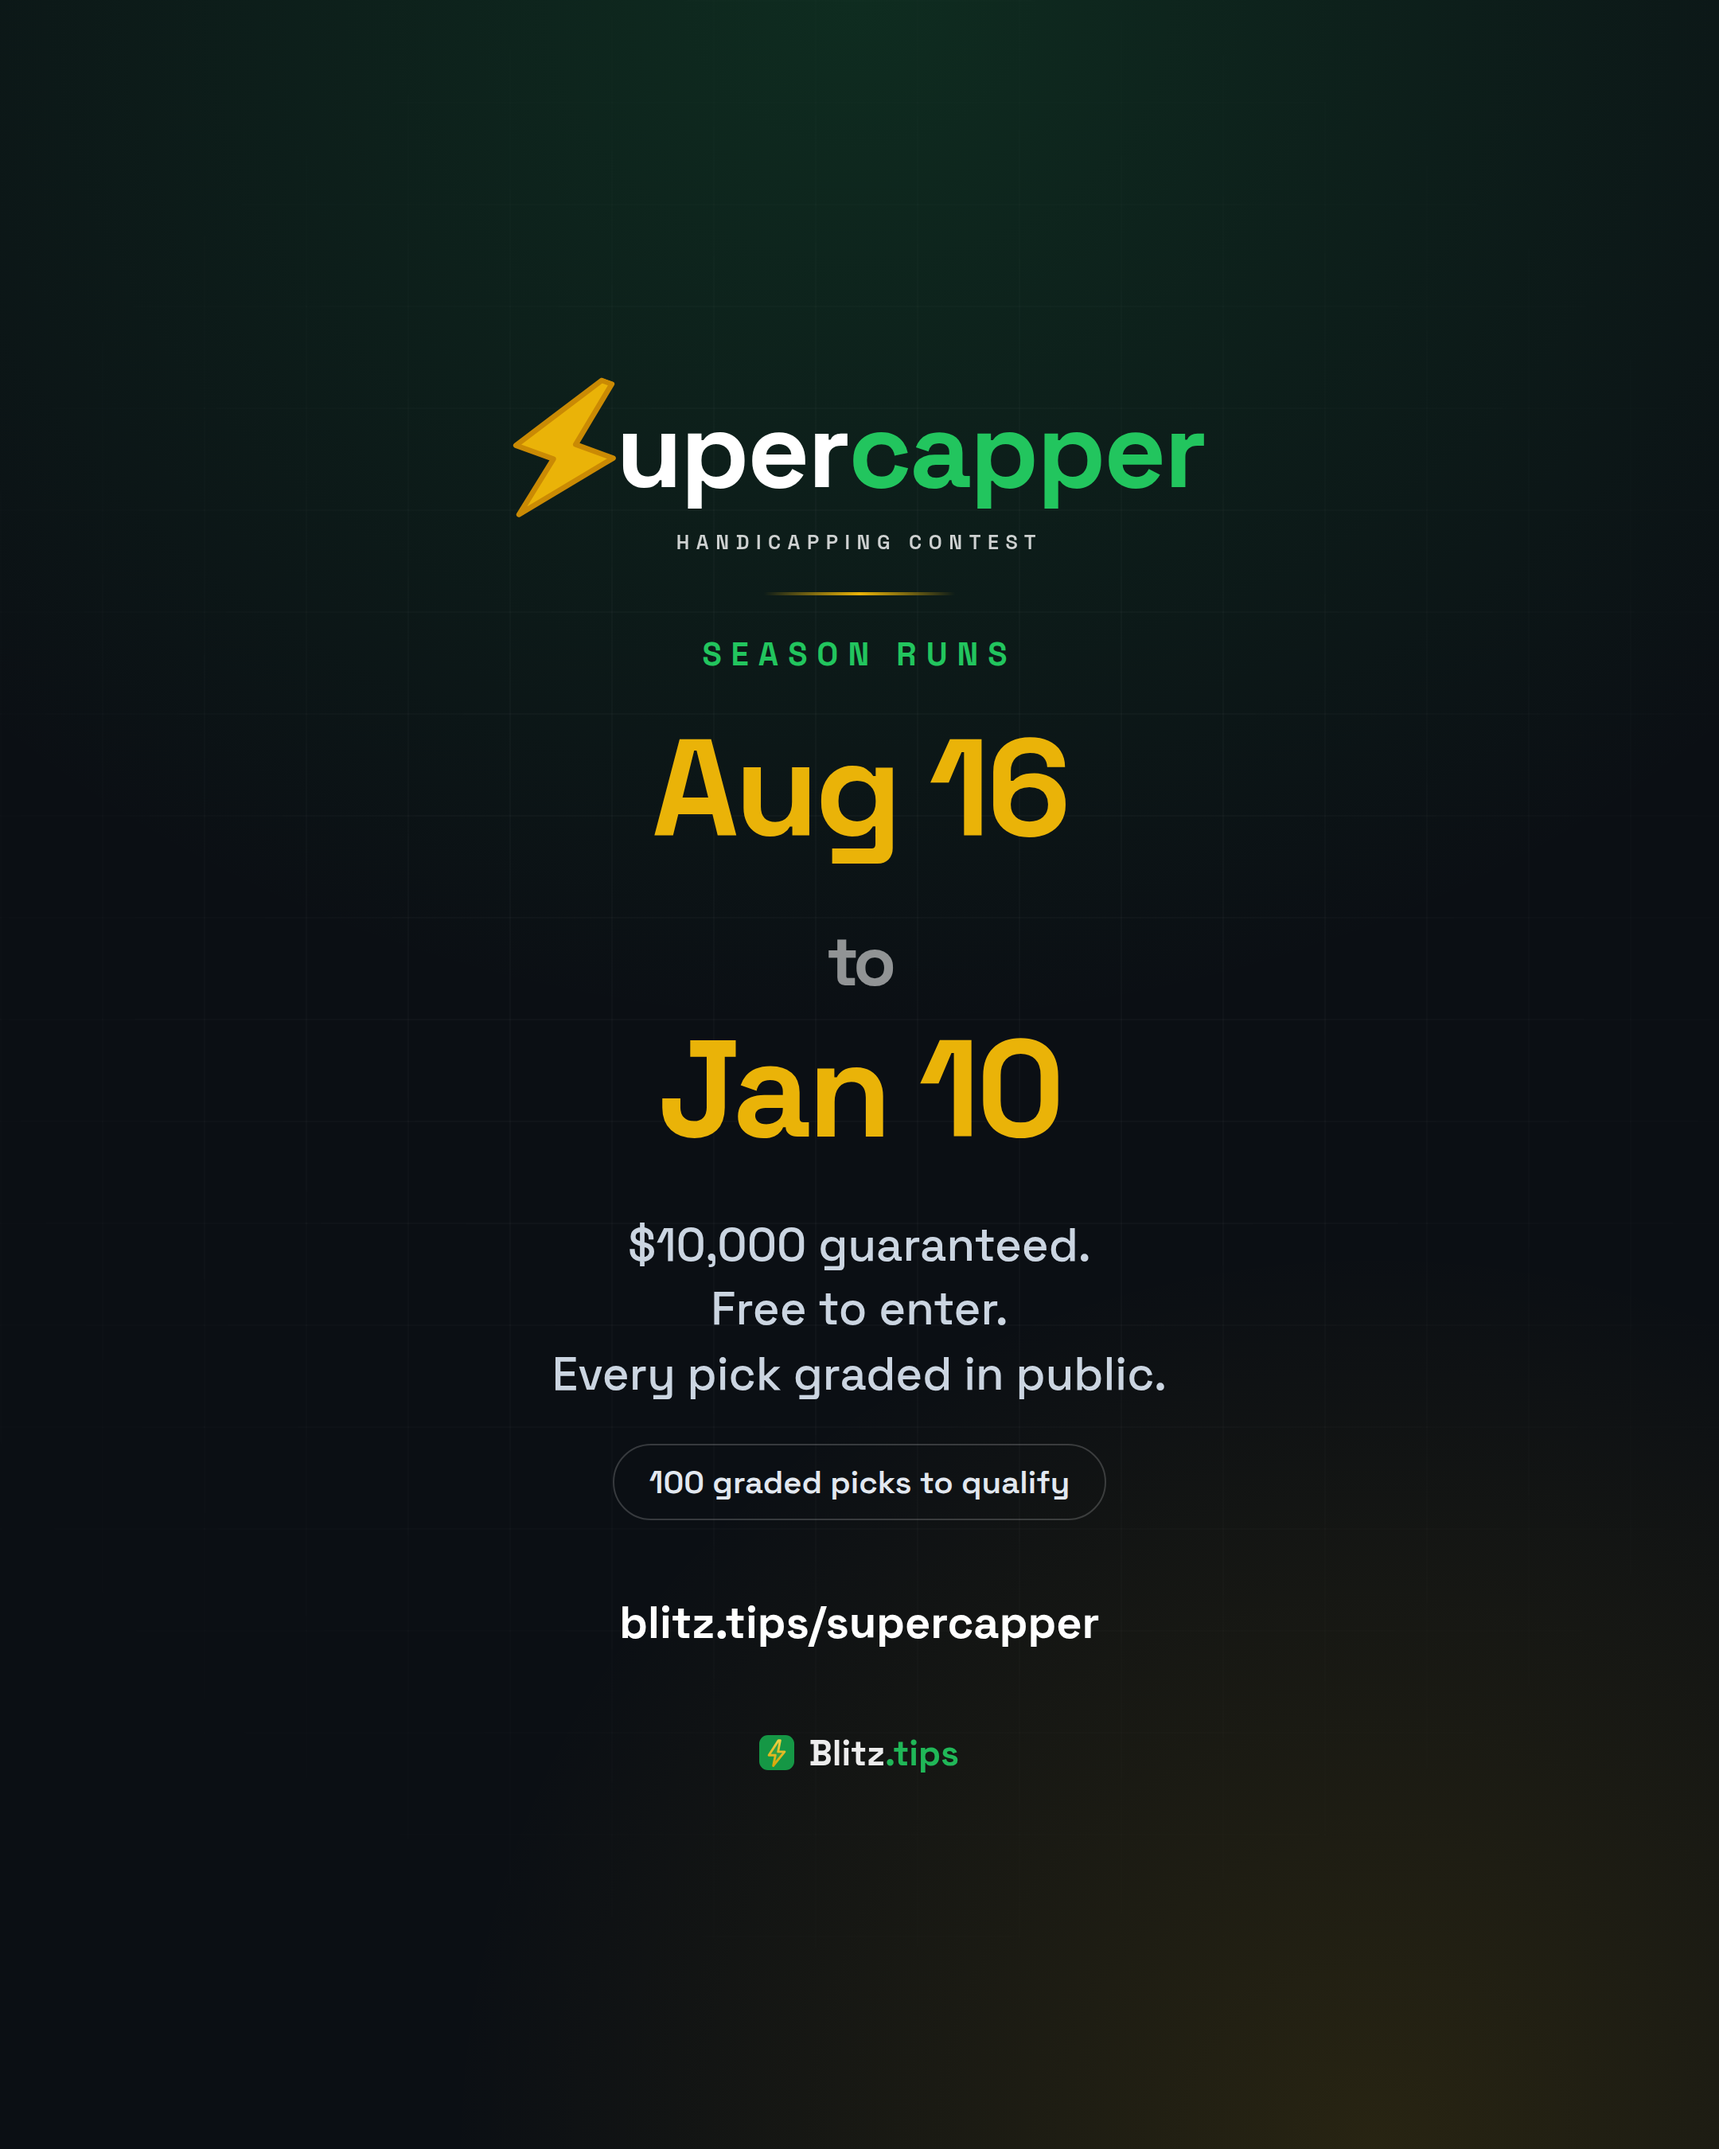
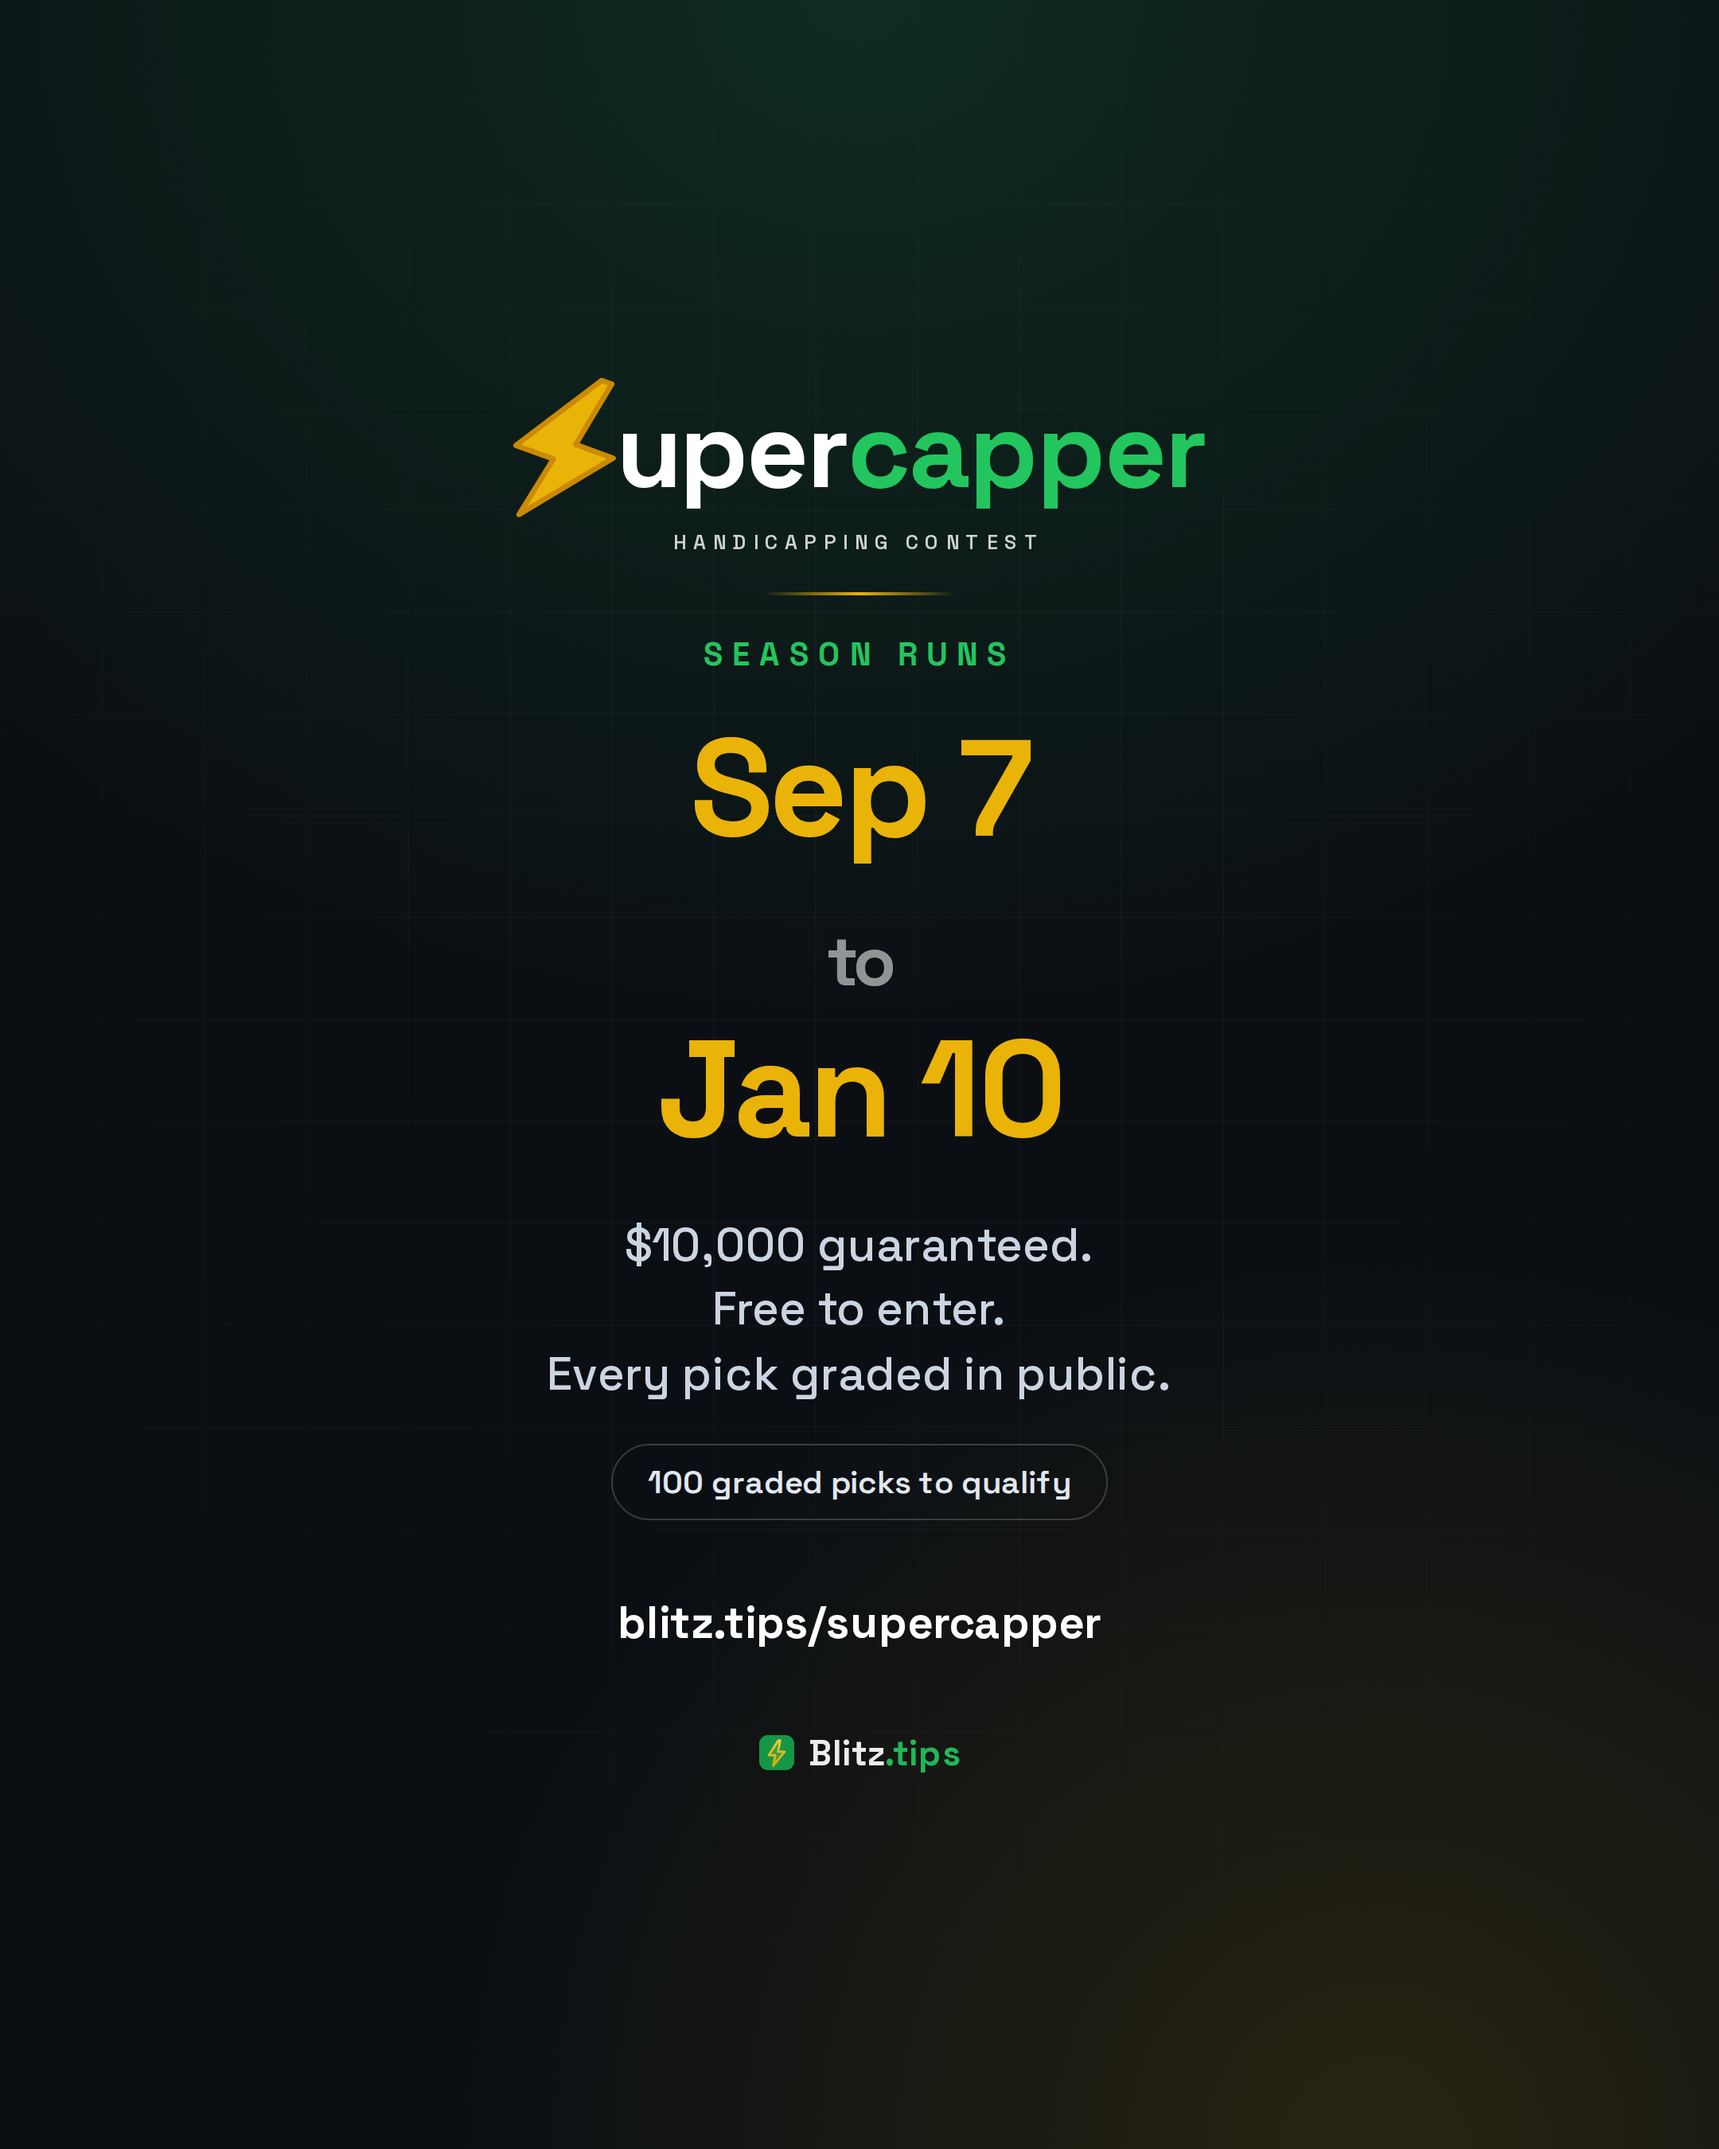
Move the contest start to Sep 7 2026
Third move (Aug 3 -> Aug 10 -> Aug 16 -> Sep 7), and the second made
while the contest is live: it started Aug 16 and this lands on Aug 20,
so four days of entries and picks already exist. Setting startsAt
forward un-launches it -- the countdown returns and the board stops
taking contest picks until Sep 7.

Those four days of picks are kept and still count. rankAt() windows picks
with `eventStartsAt < cutoff` and applies no lower bound, so a pick made
before startsAt is still ranked and still feeds ROI. The one visible
effect is the entrant rank-history chart, whose first cutoff derives from
startsAt and so moves to Sep 8; it won't plot points before then, though
those picks are already counted inside the first point it does plot. An
earlier note in this branch warned they might drop out of standings
entirely -- that was over-cautious, and reading rankAt settles it.

Only startsAt moves, so the season keeps shortening rather than shifting:
Sep 7 -> Jan 10 is four months and three days, which is why the marketing
copy no longer says five months. registrationClosesAt is still Sep 27,
now 20 days after the start rather than 42.

The post queue is re-anchored to a Monday launch -- the first two
anchorings launched on a Sunday. The five pre-launch days still end the
day before the gun, so every slot assignment is unchanged and only the
last row moves from Saturday to Sunday.

Dated stills are re-rendered. The other five cards are left at their
[…]

diff --git a/docs/supercapper-post-queue.md b/docs/supercapper-post-queue.md
@@ -48,15 +48,20 @@ The schedule tables already respect this; keep the rule if you extend them.
 
 ---
 
-# Phase 1 — Pre-launch (Tue 11 Aug → Sat 15 Aug)
+# Phase 1 — Pre-launch (Wed 2 Sep → Sun 6 Sep)
 
-The contest is **open for entries now** and **starts Sun 16 Aug**. That's the
+The contest is **open for entries now** and **starts Mon 7 Sep**. That's the
 whole pre-launch frame: join before the gun so you don't spot the field a week
 of picks. Do not say "starting soon" without the date — it reads as vapour.
 
-**Re-anchored twice.** The start moved Aug 3 → Aug 10 → Aug 16, the second time
-after the contest had already gone live for a day. If you scheduled anything
-from an earlier version of this file, delete it — those slots carry dead dates.
+**Re-anchored three times.** The start moved Aug 3 → Aug 10 → Aug 16 → Sep 7.
+Two of those moves happened after the contest had already gone live, the last of
+them four days in. If you scheduled anything from an earlier version of this
+file, delete it — those slots carry dead dates.
+
+Note the launch is a **Monday** this time; the first two anchorings launched on
+a Sunday. The pre-launch block still ends the day before the gun, so the slot
+assignments are unchanged, but the last row is now Sunday rather than Saturday.
 
 ## Schedule
 
@@ -66,20 +71,20 @@ that carry a date or an objection.
 
 | Day | A 07:40 | B 12:20 | C 17:10 | D 21:50 | E 14:05 |
 |---|---|---|---|---|---|
-| Tue 11 | P1 | P2 | P3 | P4 | — |
-| Wed 12 | P9 | P6 | P7 | P8 | — |
-| Thu 13 | P13 | P10 | P11 | P15 | — |
-| Fri 14 | P16 | P17 | P18 | P6 | — |
-| Sat 15 | P22 | P21 | P20 | P24 | P14 |
+| Wed 2  | P1 | P2 | P3 | P4 | — |
+| Thu 3  | P9 | P6 | P7 | P8 | — |
+| Fri 4  | P13 | P10 | P11 | P15 | — |
+| Sat 5  | P16 | P17 | P18 | P6 | — |
+| Sun 6  | P22 | P21 | P20 | P24 | P14 |
 
-Only P6 runs twice (Wed B → Fri D): 3 days apart, different slot letter.
+Only P6 runs twice (Thu B → Sat D): 3 days apart, different slot letter.
 
 ## The posts
 
 **P1 — The offer, plainly** · `supercapper-starts-1600x900.png`
 > $10,000. Free to enter. Nothing for sale.
 >
-> The Supercapper contest opens Aug 16: post your plays, every one graded in
+> The Supercapper contest opens Sep 7: post your plays, every one graded in
 > public, best ROI takes the biggest slice.
 >
 > Entries are open now.
@@ -91,7 +96,7 @@ Only P6 runs twice (Wed B → Fri D): 3 days apart, different slot letter.
 >
 > Everyone says they're up. Almost nobody posts a record you can check.
 >
-> Free contest. Public grading. Best ROI wins. Starts Aug 16.
+> Free contest. Public grading. Best ROI wins. Starts Sep 7.
 
 **P3 — Can't-delete-a-loser** · `supercapper-motion-slip-1920x1080.mp4`
 > Every pick is timestamped against live odds and graded automatically when the
@@ -113,7 +118,7 @@ Only P6 runs twice (Wed B → Fri D): 3 days apart, different slot letter.
 **P5 — The 100-pick bar** · `supercapper-howitworks-1600x900.png`
 > Saying the hard part up front: 100 graded picks to be prize-eligible.
 >
-> This isn't a one-week parlay sprint. It's a five-month record — Aug 16 to
+> This isn't a one-week parlay sprint. It's a four-month record — Sep 7 to
 > Jan 10.
 >
 > If that's not your thing, this contest isn't either.
@@ -127,7 +132,7 @@ Only P6 runs twice (Wed B → Fri D): 3 days apart, different slot letter.
 **P7 — Countdown** · `supercapper-countdown-1080x1350.png`
 > Four days out.
 >
-> Aug 16 2026 → Jan 10 2027. Five months of graded picks, $10,000 guaranteed,
+> Sep 7 2026 → Jan 10 2027. Five months of graded picks, $10,000 guaranteed,
 > free to enter.
 >
 > Entries open now — join before the first slate so you're not spotting the
@@ -167,13 +172,13 @@ Only P6 runs twice (Wed B → Fri D): 3 days apart, different slot letter.
 **P12 — Late-night hook** · `supercapper-x-9x16-1080x1920.mp4`
 > If you've been keeping a record in a spreadsheet nobody's ever seen —
 >
-> $10,000, free to enter, starts Aug 16. Best ROI over five months.
+> $10,000, free to enter, starts Sep 7. Best ROI over four months.
 >
 > Time to find out whether the spreadsheet was right.
 
 **P13 — For the honest loser** · no media
 > Underrated reason to enter: you find out you're not as good as you thought,
-> for free, in five months, instead of finding out slowly over ten years.
+> for free, in four months, instead of finding out slowly over ten years.
 >
 > That's worth more than most $99/month channels.
 
@@ -189,12 +194,12 @@ Only P6 runs twice (Wed B → Fri D): 3 days apart, different slot letter.
 >
 > We built a contest where you don't have to answer. The site answers for you.
 >
-> $10K. Free. Starts Aug 16.
+> $10K. Free. Starts Sep 7.
 
 **P16 — Two days out** · `supercapper-starts-square-1080.png`
 > Two days.
 >
-> Aug 16. $10,000 guaranteed. Free to enter. Best ROI over five months takes
+> Sep 7. $10,000 guaranteed. Free to enter. Best ROI over four months takes
 > the biggest slice.
 >
 > blitz.tips/supercapper
@@ -203,7 +208,7 @@ Only P6 runs twice (Wed B → Fri D): 3 days apart, different slot letter.
 > Whatever you're on this weekend — imagine it graded, timestamped and ranked
 > against everyone else's.
 >
-> That starts Aug 16. Entries are open now.
+> That starts Sep 7. Entries are open now.
 
 **P18 — Rules in the open** · no media
 > Full rules, payout structure and the ICM chop are all published before it
@@ -218,10 +223,10 @@ Only P6 runs twice (Wed B → Fri D): 3 days apart, different slot letter.
 >
 > Ours can go badly in public. That's the point.
 >
-> $10,000, free, starts Aug 16.
+> $10,000, free, starts Sep 7.
 
 **P20 — You can still join late (but)** · no media
-> You can enter after Aug 16 — registration runs to Sep 27.
+> You can enter after Sep 7 — registration runs to Sep 27.
 >
 > But every day you wait is a day of graded picks the field has and you don't,
 > and you need 100 to be eligible at all.
@@ -240,25 +245,25 @@ Only P6 runs twice (Wed B → Fri D): 3 days apart, different slot letter.
 > Tomorrow.
 >
 > $10,000 guaranteed · free to enter · best volume-adjusted ROI wins ·
-> Aug 16 2026 → Jan 10 2027
+> Sep 7 2026 → Jan 10 2027
 
 **P23 — The pitch in one line** · `supercapper-promo-1080x1920.mp4`
-> Post your picks. They grade themselves. Best ROI over five months wins the
+> Post your picks. They grade themselves. Best ROI over four months wins the
 > biggest share of $10,000.
 >
-> Free. Starts tomorrow — Aug 16.
+> Free. Starts tomorrow — Sep 7.
 
 **P24 — Last night** · `supercapper-dates-1600x900.png`
 > Last night before the board opens.
 >
-> Aug 16 → Jan 10. Every pick graded in public. $10,000 guaranteed, paid out in
+> Sep 7 → Jan 10. Every pick graded in public. $10,000 guaranteed, paid out in
 > full whatever the turnout.
 >
 > blitz.tips/supercapper
 
 ---
 
-# Phase 2 — Launch day (Sun 16 Aug)
+# Phase 2 — Launch day (Mon 7 Sep)
 
 Five slots. Add **F at 09:30** — launch day earns one extra.
 
@@ -274,7 +279,7 @@ Five slots. Add **F at 09:30** — launch day earns one extra.
 > It's live.
 >
 > The Supercapper contest starts today. $10,000 guaranteed, free to enter, best
-> volume-adjusted ROI over five months.
+> volume-adjusted ROI over four months.
 >
 > First graded picks go on the board tonight.
 >
@@ -306,7 +311,7 @@ tweet 1. **Pin this.** Swap the banner to
 
 ---
 
-# Phase 3 — In-contest evergreen (from Mon 17 Aug)
+# Phase 3 — In-contest evergreen (from Tue 8 Sep)
 
 Once real data exists, **screenshots beat everything in this file.** Shift the
 mix toward them as soon as the board has entrants: aim for two of the four
@@ -363,9 +368,9 @@ Keep the same A/B/C/D cadence. Suggested weekly shape:
 
 - **Check the numbers against the live row.** $10,000 and 100 picks are in every
   second post here. The pool has already been edited once ($25,000 → $10,000)
-  and the start twice (Aug 3 → Aug 10 → Aug 16). If either moves again, this file and
+  and the start twice (Aug 3 → Aug 10 → Sep 7). If either moves again, this file and
   every scheduled post move with it.
-- **The assets say Aug 16.** They were re-rendered for the new date. Delete any
+- **The assets say Sep 7.** They were re-rendered for the new date. Delete any
   older export you still have — earlier sets said Aug 3 and Aug 10.
 - **P20 and E6 depend on registration closing Sep 27.** Confirm that's still the
   `registrationClosesAt` value before those slots run.

diff --git a/public/marketing/README.md b/public/marketing/README.md
@@ -20,9 +20,9 @@ All exports are 2× for retina.
 | `supercapper-square-1080.png` | 1080×1080 | Instagram feed, X in-feed square |
 | `supercapper-vertical-1080x1350.png` | 1080×1350 | Instagram portrait (most feed space) |
 | `supercapper-banner-1500x500.png` | 1500×500 | X profile header |
-| `supercapper-starts-1600x900.png` | 1600×900 | "Starts Aug 16" — the pre-launch push |
+| `supercapper-starts-1600x900.png` | 1600×900 | "Starts Sep 7" — the pre-launch push |
 | `supercapper-dates-1600x900.png` | 1600×900 | Key dates, both ends, with the enter-anytime caveat |
-| `supercapper-starts-square-1080.png` | 1080×1080 | "Starts Aug 16", square |
+| `supercapper-starts-square-1080.png` | 1080×1080 | "Starts Sep 7", square |
 | `supercapper-countdown-1080x1350.png` | 1080×1350 | Season run, portrait |
 | `supercapper-x-money-dates-1600x900.png` | 1600×900 | Money + dates, the default X post |
 | `supercapper-x-payout-1600x900.png` | 1600×900 | How the pool pays — answers "will I actually get paid" |
@@ -132,15 +132,16 @@ everything in the middle band for that reason.
 ## Dates
 
 `STARTS` / `ENDS` at the top of the script are the seeded contest window —
-**August 16, 2026 → January 10, 2027** — taken from the `Contest` row's `startsAt`
+**September 7, 2026 → January 10, 2027** — taken from the `Contest` row's `startsAt`
 and `endsAt`.
 
 Verify against the live row before publishing. An admin can change these in the
 contests panel without a migration, so the values here are the best available
 source, not proof of what production currently holds. The pool has been edited
-once ($25,000 → $10,000) and the start twice (Aug 3 → Aug 10 → Aug 16), which
-is exactly how these drift. The second start move happened *after* the contest
-had already gone live, so treat any artwork you can't date as suspect.
+once ($25,000 → $10,000) and the start three times (Aug 3 → Aug 10 → Aug 16 →
+Sep 7), which is exactly how these drift. Two of those start moves happened
+*after* the contest had already gone live, so treat any artwork you can't date
+as suspect.
 
 `registrationClosesAt` is **September 27, 2026**, set by the dynamic-payouts
 migration. (This section previously said it was null and that entries stayed
